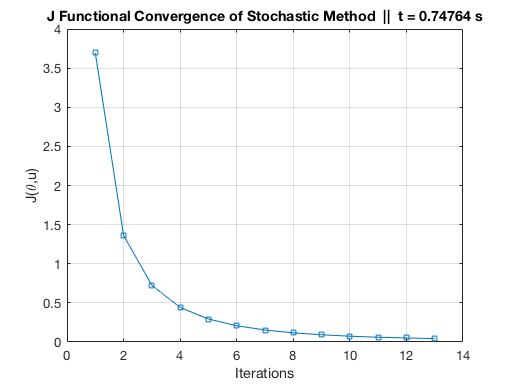
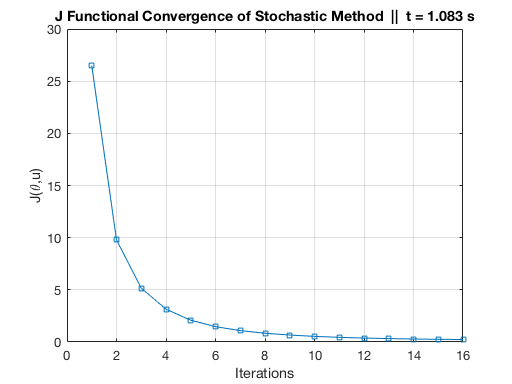
maxN = 500, To have a better graph

diff --git a/docs/tutorials/wp01/P0004-T.html b/docs/tutorials/wp01/P0004-T.html
@@ -382,13 +382,13 @@ A =
 <div class="highlighter-rouge"><div class="highlight"><pre class="highlight"><code>
 theta0 =
 
-   10.1450
-   -3.8530
-   12.2818
-   10.6742
-    2.7450
-   -5.5123
-   12.9204
+   20.3206
+  -11.3219
+   -9.3685
+  -10.7385
+    3.5834
+   -2.1551
+   17.1415
 
 
 </code></pre></div></div>
@@ -425,9 +425,9 @@ theta0 =
 
 <div class="language-matlab highlighter-rouge"><div class="highlight"><pre class="highlight"><code><span class="n">Results_Classical</span> <span class="o">=</span> <span class="p">{};</span><span class="n">Results_Stochastic</span> <span class="o">=</span> <span class="p">{};</span>
 <span class="c1">%</span>
-<span class="n">maxN</span> <span class="o">=</span> <span class="mi">80</span><span class="p">;</span> <span class="c1">% &lt;=== Maximal number of oscillator allowed in the model</span>
+<span class="n">maxN</span> <span class="o">=</span> <span class="mi">500</span><span class="p">;</span> <span class="c1">% &lt;=== Maximal number of oscillator allowed in the model</span>
 <span class="n">iter</span> <span class="o">=</span> <span class="mi">0</span><span class="p">;</span>
-<span class="k">for</span> <span class="n">N</span> <span class="o">=</span> <span class="mi">1</span><span class="p">:</span><span class="mi">15</span><span class="p">:</span><span class="n">maxN</span>
+<span class="k">for</span> <span class="n">N</span> <span class="o">=</span> <span class="mi">1</span><span class="p">:</span><span class="mi">100</span><span class="p">:</span><span class="n">maxN</span>
     <span class="c1">% We solve the problem for each N</span>
     <span class="n">iter</span> <span class="o">=</span> <span class="n">iter</span> <span class="o">+</span> <span class="mi">1</span><span class="p">;</span>
     <span class="c1">% Definition of the linearized Kuramoto problem</span>

diff --git a/_posts/tutorials/WP01/2018-10-19-P0004-T.md b/_posts/tutorials/WP01/2018-10-19-P0004-T.md
@@ -127,13 +127,13 @@ theta0 = normrnd(mu,sigma,N,1)
 
 theta0 =
 
-   10.1450
-   -3.8530
-   12.2818
-   10.6742
-    2.7450
-   -5.5123
-   12.9204
+   20.3206
+  -11.3219
+   -9.3685
+  -10.7385
+    3.5834
+   -2.1551
+   17.1415
 
 
 ```
@@ -192,9 +192,9 @@ In this example, we show that stochastic method is faster than the classical des
 ```matlab
 Results_Classical = {};Results_Stochastic = {};
 %
-maxN = 80; % <=== Maximal number of oscillator allowed in the model
+maxN = 500; % <=== Maximal number of oscillator allowed in the model
 iter = 0;
-for N = 1:15:maxN
+for N = 1:100:maxN
     % We solve the problem for each N
     iter = iter + 1;
     % Definition of the linearized Kuramoto problem
